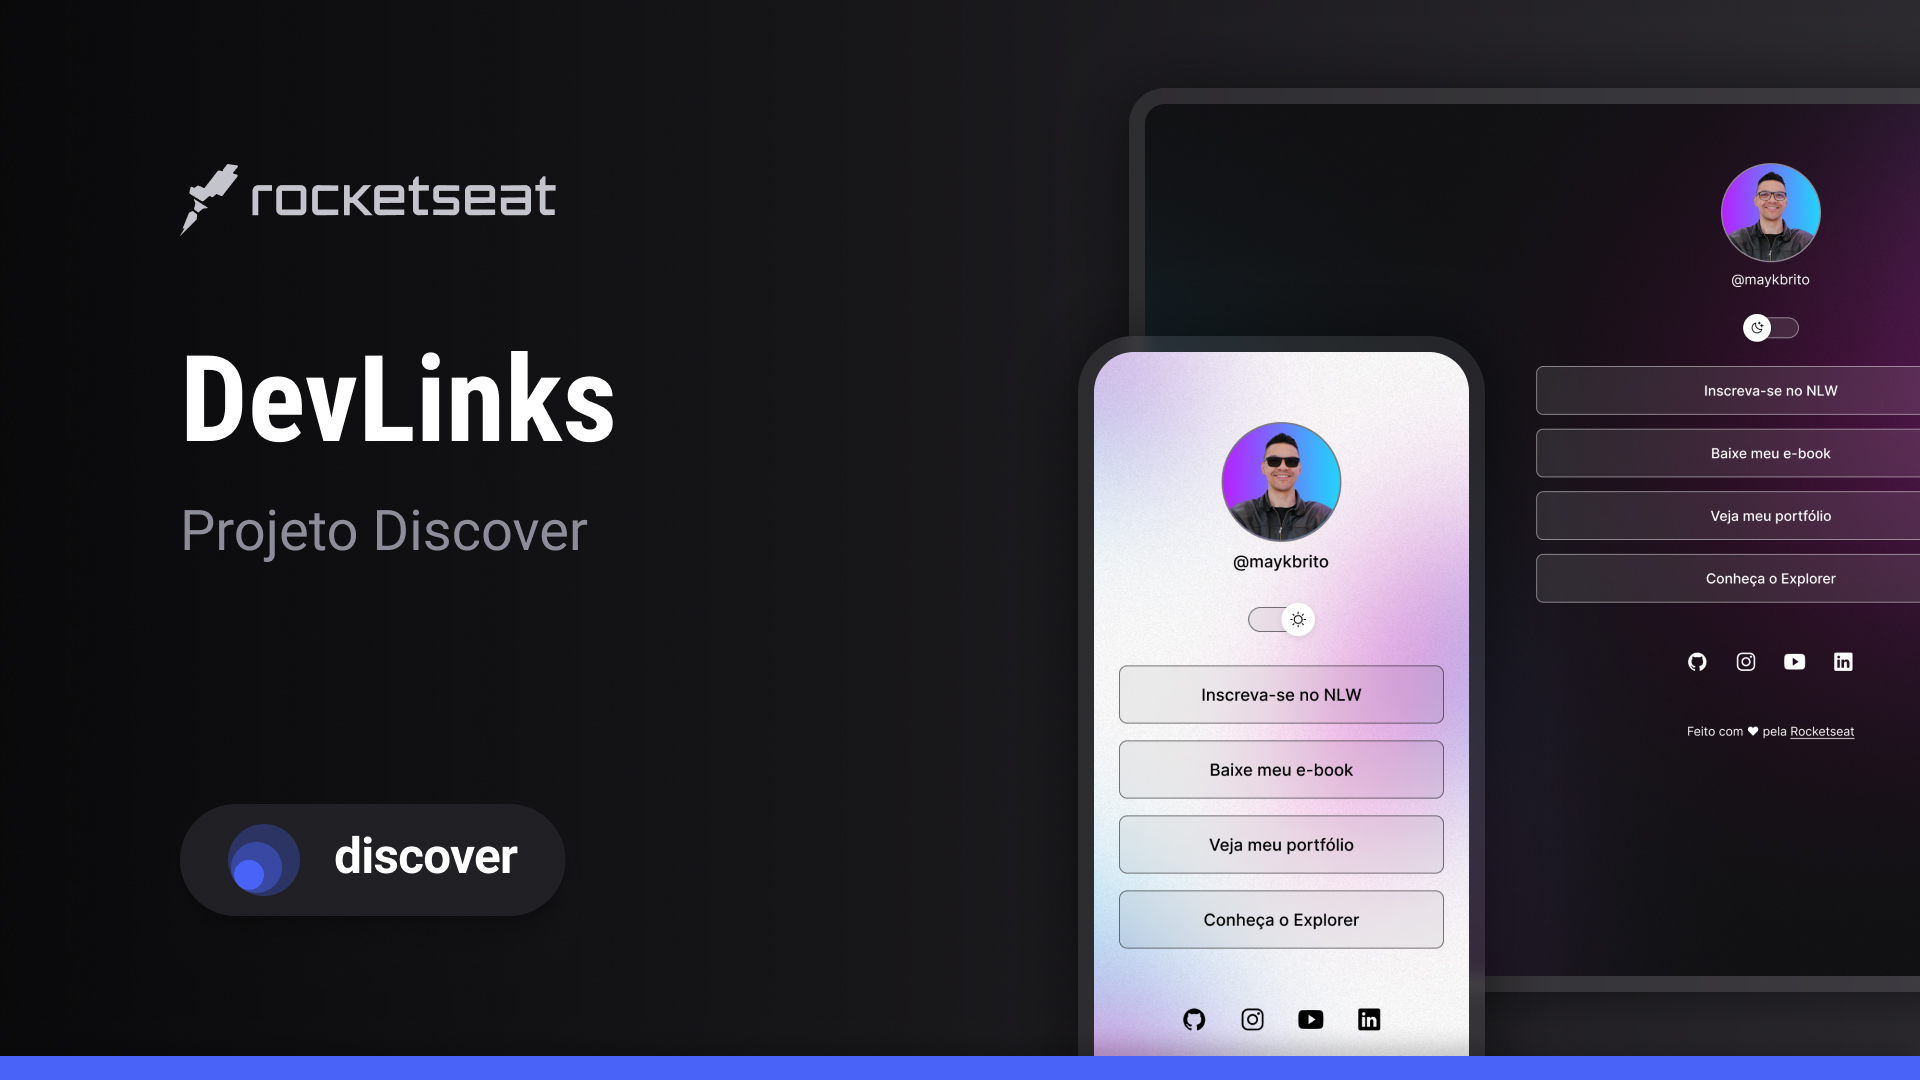
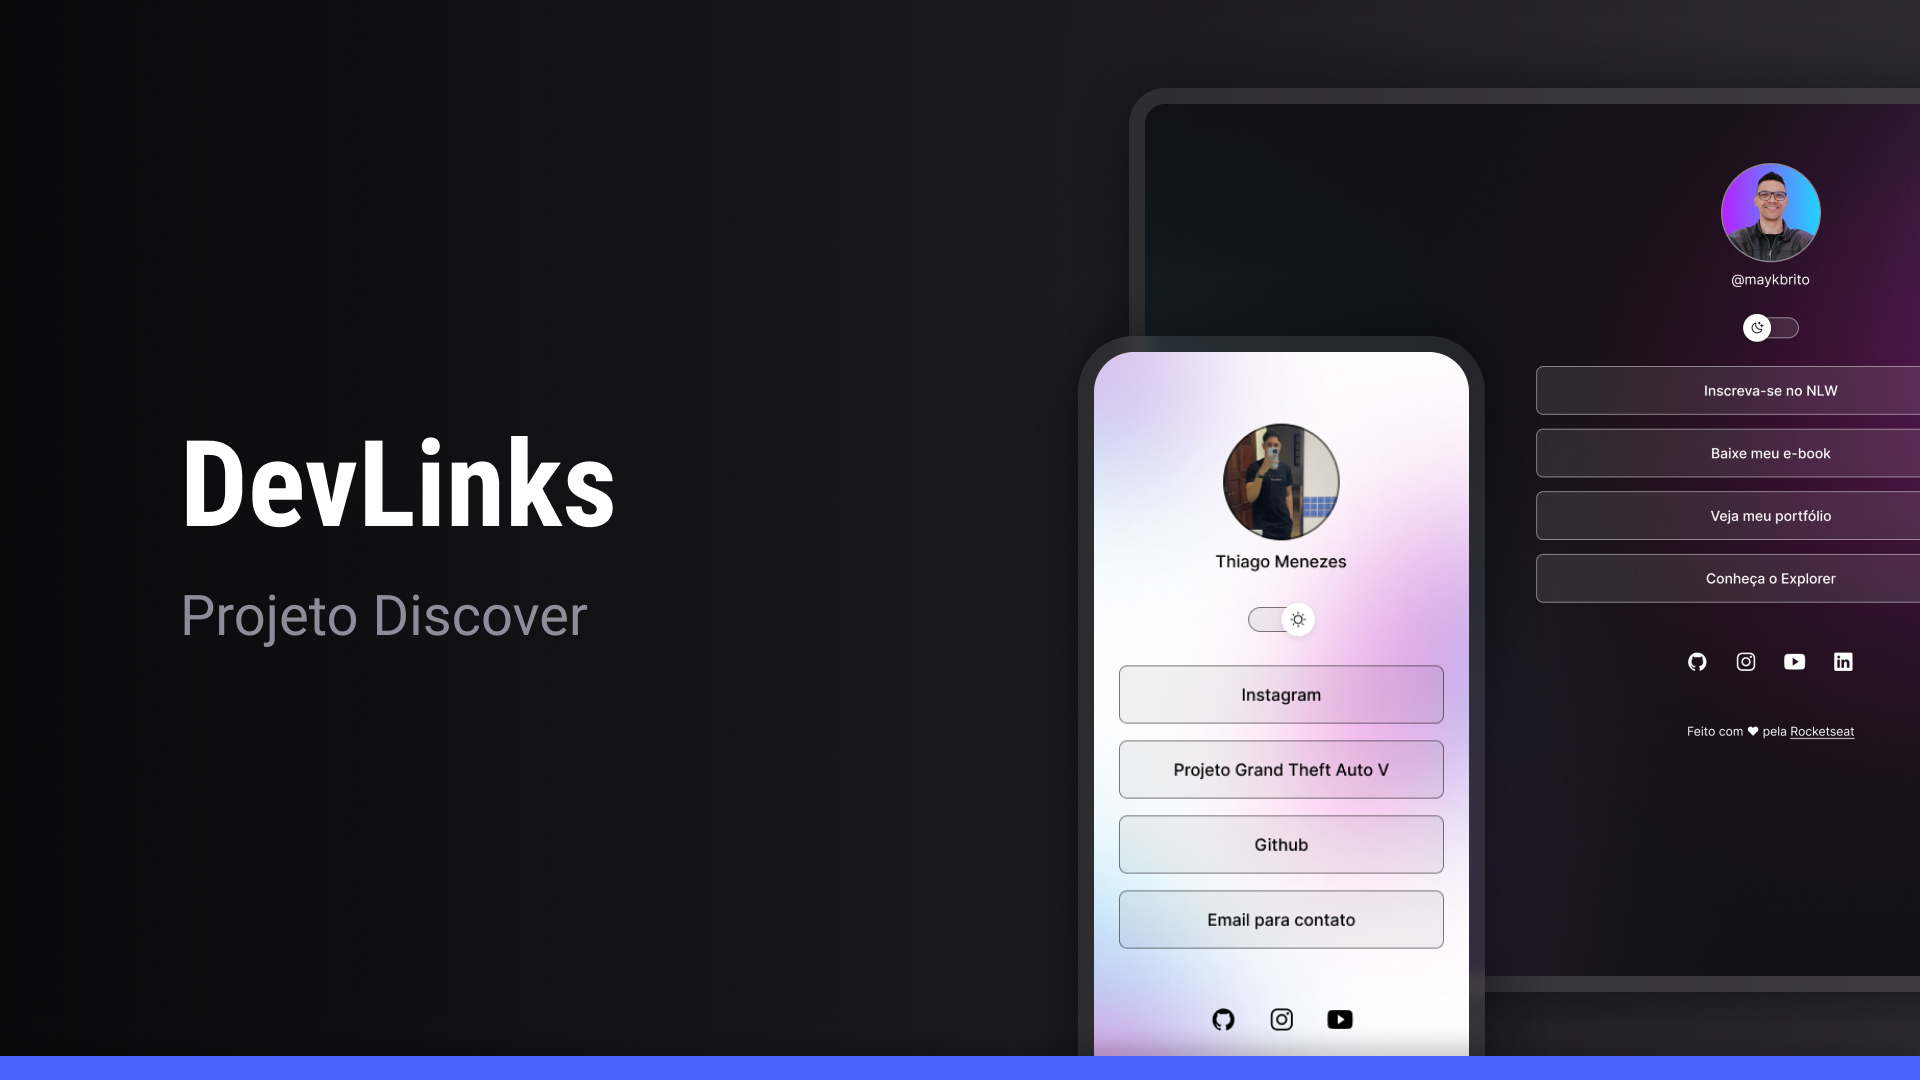
add readme

diff --git a/README.md b/README.md
@@ -1,18 +1,16 @@
 <h1 align="center"> DevLinks </h1>
 
 <p align="center">
-Progama exclusivo e gratuito, promovido pela Rocketseat para ensino de tecnologias WEB.
+Projeto feito por Thiago Menezes, baseado no projeto promovido pela Rocketseat para ensino de tecnologias WEB.
 </p>
 
 <p align="center">
   <a href="#-tecnologias">Tecnologias</a>&nbsp;&nbsp;&nbsp;|&nbsp;&nbsp;&nbsp;
-  <a href="#-projeto">Projeto</a>&nbsp;&nbsp;&nbsp;|&nbsp;&nbsp;&nbsp;
-  <a href="#-layout">Layout</a>&nbsp;&nbsp;&nbsp;|&nbsp;&nbsp;&nbsp;
-  <a href="#memo-licença">Licença</a>
+  <a href="#-projeto">Projeto</a>&nbsp;&nbsp;&nbsp;&nbsp;&nbsp;&nbsp;
 </p>
 
 <p align="center">
-  <img alt="License" src="https://img.shields.io/static/v1?label=license&message=MIT&color=49AA26&labelColor=000000">
+  
 </p>
 
 <br>
@@ -33,14 +31,6 @@ Esse projeto foi desenvolvido com as seguintes tecnologias:
 ## 💻 Projeto
   O DevLinks é um agregador de links feito para ser ultilizado como cartão de visitas online.
 
-## 🔖 Layout
-
-Você pode visualizar o layout do projeto através [DESSE LINK](https://www.figma.com/file/Zz3uGBFMBuQiOPL9DV4sMK/DevLinks-%E2%80%A2-Projeto-Discover-(Community)?type=design&node-id=1437-191&mode=design&t=IoL4HHWVJURBq4Ar-0). É necessário ter conta no [Figma](https://figma.com) para acessá-lo.
-
-## :memo: Licença
-
-Esse projeto está sob a licença MIT.
-
 ---
 
-Feito com ♥ by Rocketseat :wave: [Participe da nossa comunidade!](https://discord.gg/rocketseat)
+Feito com ♥ por Thiago Menezes.
